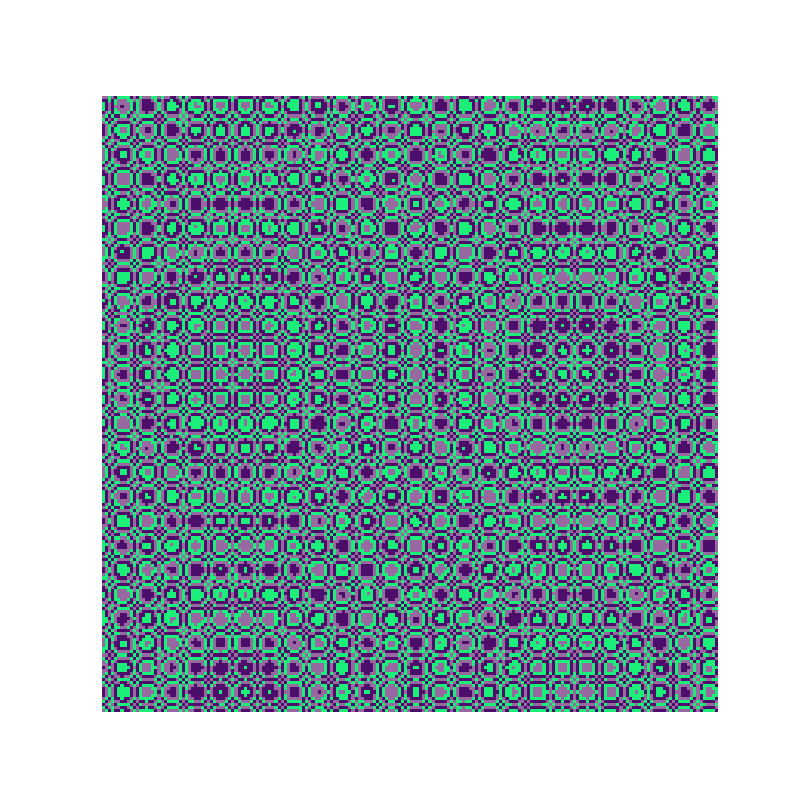
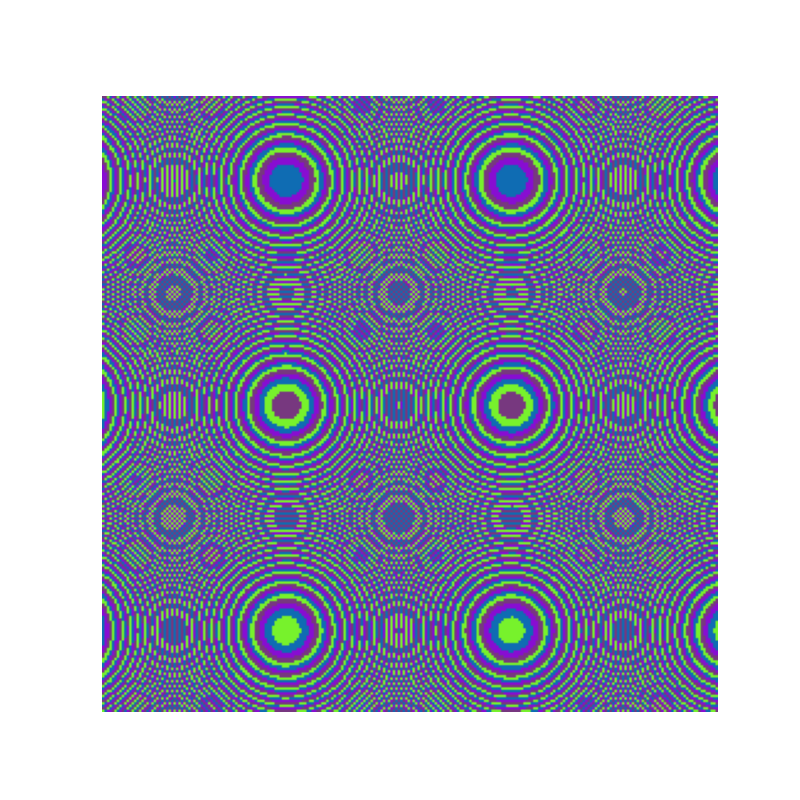
modified:   circle_1.png modified:   wallpapers_for_the_mind.py

diff --git a/wallpapers_for_the_mind.py b/wallpapers_for_the_mind.py
@@ -3,11 +3,11 @@ import matplotlib.pyplot as plt
 import random
 
 # Constants
-WIDTH, HEIGHT = 200, 200  # Grid resolution
-CORNER_A = -15  # Lower-left corner
-CORNER_B = -20  # Lower-right corner
-SIDE = 87  # Side length of the square grid
-NUM_COLORS = 3  # Number of distinct colors
+WIDTH, HEIGHT = 250, 250  # Grid resolution
+CORNER_A = -5  # Lower-left corner
+CORNER_B = -11  # Lower-right corner
+SIDE = 37  # Side length of the square grid
+NUM_COLORS = 4  # Number of distinct colors
 
 def compute_wallpaper(corner_a, corner_b, side, width, height, num_colors):
     """Compute a pattern based on squared sums with multiple colors."""
